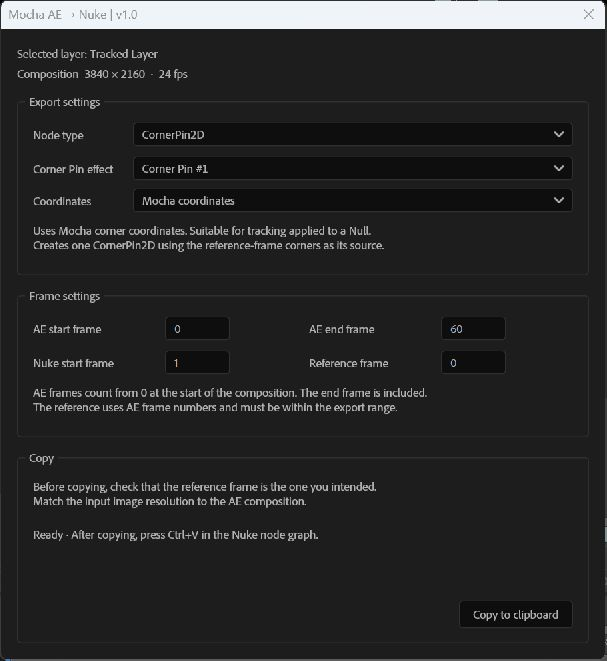
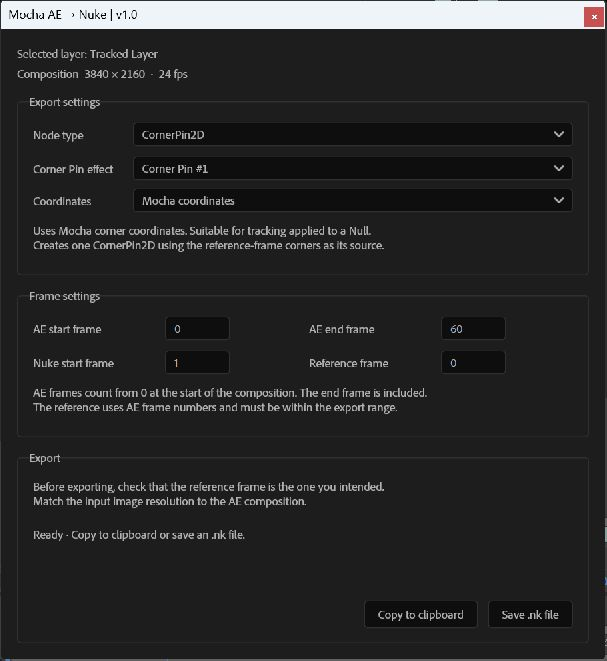
Mocha AE to Nuke v1.0

diff --git a/Mocha_AE_to_Nuke_KO.jsx b/Mocha_AE_to_Nuke_KO.jsx
@@ -260,6 +260,24 @@ var MochaNukeBridge = (function () {
             }
         }
     }
+    function saveNK(text) {
+        var file = File.saveDialog('Nuke 파일로 저장', 'Nuke script:*.nk');
+        if (!file) return null;
+        if (!/\.nk$/i.test(file.name)) {
+            file = new File(file.fsName + '.nk');
+            if (file.exists && !confirm('같은 이름의 파일이 있습니다. 덮어쓸까요?\n' + file.fsName)) return null;
+        }
+        try {
+            file.encoding = 'UTF-8'; file.lineFeed = 'Unix';
+            if (!file.open('w')) throw new Error('파일을 쓸 수 없습니다: ' + file.error);
+            var written = file.write(text), closed = file.close();
+            if (!written || !closed) throw new Error('파일 저장에 실패했습니다: ' + file.error);
+            if (!file.open('r')) throw new Error('저장한 파일을 확인할 수 없습니다: ' + file.error);
+            var actual = file.read(); file.close();
+            if (actual !== text) throw new Error('저장한 파일의 내용이 원본과 다릅니다.');
+            return file.fsName;
+        } finally { try { file.close(); } catch (ignored) {} }
+    }
     function run() {
         try {
             var comp = app.project ? app.project.activeItem : null;
@@ -323,19 +341,20 @@ var MochaNukeBridge = (function () {
                 updateModeHelp();
             };
             cornerSpaceList.onChange = updateModeHelp;
-            var copyPanel = panel('복사');
+            var copyPanel = panel('내보내기');
             var pasteHelp = copyPanel.add('statictext', undefined,
-                '복사 전에 레퍼런스 프레임이 원하는 기준 시점인지 확인하세요.\n입력 이미지의 해상도는 AE 컴포지션과 맞춰 주세요.', {multiline: true});
+                '내보내기 전에 레퍼런스 프레임이 원하는 기준 시점인지 확인하세요.\n입력 이미지의 해상도는 AE 컴포지션과 맞춰 주세요.', {multiline: true});
             pasteHelp.preferredSize = [540, 38];
-            var status = copyPanel.add('statictext', undefined, clipboardPermissionMessage() || '준비 완료 · 복사 후 Nuke 노드 그래프에서 Ctrl+V 하세요.', {multiline: true});
+            var status = copyPanel.add('statictext', undefined, clipboardPermissionMessage() || '준비 완료 · 클립보드로 복사하거나 .nk 파일로 저장하세요.', {multiline: true});
             status.preferredSize = [540, 64];
             var buttons = copyPanel.add('group'); buttons.alignment = 'right';
             var exportButton = buttons.add('button', undefined, '클립보드로 복사');
+            var saveButton = buttons.add('button', undefined, '.nk 파일로 저장');
             win.defaultElement = exportButton;
-            exportButton.onClick = function () {
-                exportButton.enabled = false;
+            function exportTracking(toFile) {
+                exportButton.enabled = false; saveButton.enabled = false;
                 try {
-                    status.text = '트래킹 데이터를 복사하는 중입니다…';
+                    status.text = '트래킹 데이터를 준비하는 중입니다…';
                     win.update();
                     var opts = {aeFirst: integer(firstBox.text, 'AE start'), aeLast: integer(lastBox.text, 'AE end'),
                         type: typeList.selection.index === 1 ? 'transform' : 'cornerpin',
@@ -344,20 +363,29 @@ var MochaNukeBridge = (function () {
                         refFrame: integer(refBox.text, '레퍼런스 프레임')};
                     if (opts.type === 'cornerpin' && !effects.length) throw new Error('Mocha AE에서 Corner Pin > Apply Export를 먼저 실행하세요.');
                     var data = collect(layer, effects[effectList.selection.index], comp, opts);
-                    copyClipboard(makeNK(data), function (done, total) {
-                        status.text = '클립보드로 전달 중… ' + Math.round(done / total * 100) + '%';
-                    });
-                    status.text = '복사 완료 · Nuke ' + data.first + '–' + (data.first + data.samples.length - 1) + '프레임 · 노드 1개';
-                    status.text += '\n레퍼런스: AE ' + opts.refFrame + ' → Nuke ' + (data.first + data.refIndex) + '\nNuke 노드 그래프에서 Ctrl+V 하세요.';
-                } catch (e) { status.text = '복사 실패: ' + (e.message || e.toString()); }
-                finally { exportButton.enabled = true; }
-            };
+                    var text = makeNK(data), savedPath = null;
+                    if (toFile) {
+                        savedPath = saveNK(text);
+                        if (!savedPath) { status.text = '저장을 취소했습니다.'; return; }
+                    } else {
+                        copyClipboard(text, function (done, total) {
+                            status.text = '클립보드로 전달 중… ' + Math.round(done / total * 100) + '%';
+                        });
+                    }
+                    status.text = (toFile ? '저장 완료 · Nuke ' : '복사 완료 · Nuke ') + data.first + '–' + (data.first + data.samples.length - 1) + '프레임 · 노드 1개';
+                    status.text += '\n레퍼런스: AE ' + opts.refFrame + ' → Nuke ' + (data.first + data.refIndex);
+                    status.text += toFile ? '\n' + savedPath : '\nNuke 노드 그래프에서 Ctrl+V 하세요.';
+                } catch (e) { status.text = (toFile ? '저장 실패: ' : '복사 실패: ') + (e.message || e.toString()); }
+                finally { exportButton.enabled = true; saveButton.enabled = true; }
+            }
+            exportButton.onClick = function () { exportTracking(false); };
+            saveButton.onClick = function () { exportTracking(true); };
             typeList.onChange();
             win.center(); win.show();
         } catch (e) { alert('Mocha → Nuke\n' + e.toString()); }
     }
     return {run: run, collect: collect, makeNK: makeNK, sample: sample, transformPoint: transformPoint,
-        findPins: findPins, encodeUTF16: encodeUTF16, copyClipboard: copyClipboard,
+        findPins: findPins, encodeUTF16: encodeUTF16, copyClipboard: copyClipboard, saveNK: saveNK,
         relativeTransforms: relativeTransforms};
 }());
 if (!$.global.MOCHA_NUKE_LIBRARY_ONLY) MochaNukeBridge.run();

diff --git a/Mocha_AE_to_Nuke_EN.jsx b/Mocha_AE_to_Nuke_EN.jsx
@@ -260,6 +260,24 @@ var MochaNukeBridge = (function () {
             }
         }
     }
+    function saveNK(text) {
+        var file = File.saveDialog('Save Nuke file', 'Nuke script:*.nk');
+        if (!file) return null;
+        if (!/\.nk$/i.test(file.name)) {
+            file = new File(file.fsName + '.nk');
+            if (file.exists && !confirm('A file with this name exists. Overwrite it?\n' + file.fsName)) return null;
+        }
+        try {
+            file.encoding = 'UTF-8'; file.lineFeed = 'Unix';
+            if (!file.open('w')) throw new Error('Cannot write file: ' + file.error);
+            var written = file.write(text), closed = file.close();
+            if (!written || !closed) throw new Error('Failed to save file: ' + file.error);
+            if (!file.open('r')) throw new Error('Cannot verify saved file: ' + file.error);
+            var actual = file.read(); file.close();
+            if (actual !== text) throw new Error('Saved file contents differ from the original.');
+            return file.fsName;
+        } finally { try { file.close(); } catch (ignored) {} }
+    }
     function run() {
         try {
             var comp = app.project ? app.project.activeItem : null;
@@ -323,17 +341,18 @@ var MochaNukeBridge = (function () {
                 updateModeHelp();
             };
             cornerSpaceList.onChange = updateModeHelp;
-            var copyPanel = panel('Copy');
+            var copyPanel = panel('Export');
             var pasteHelp = copyPanel.add('statictext', undefined,
-                'Before copying, check that the reference frame is the one you intended.\nMatch the input image resolution to the AE composition.', {multiline: true});
+                'Before exporting, check that the reference frame is the one you intended.\nMatch the input image resolution to the AE composition.', {multiline: true});
             pasteHelp.preferredSize = [540, 38];
-            var status = copyPanel.add('statictext', undefined, clipboardPermissionMessage() || 'Ready · After copying, press Ctrl+V in the Nuke node graph.', {multiline: true});
+            var status = copyPanel.add('statictext', undefined, clipboardPermissionMessage() || 'Ready · Copy to clipboard or save an .nk file.', {multiline: true});
             status.preferredSize = [540, 64];
             var buttons = copyPanel.add('group'); buttons.alignment = 'right';
             var exportButton = buttons.add('button', undefined, 'Copy to clipboard');
+            var saveButton = buttons.add('button', undefined, 'Save .nk file');
             win.defaultElement = exportButton;
-            exportButton.onClick = function () {
-                exportButton.enabled = false;
+            function exportTracking(toFile) {
+                exportButton.enabled = false; saveButton.enabled = false;
                 try {
                     status.text = 'Preparing tracking data…';
                     win.update();
@@ -344,20 +363,29 @@ var MochaNukeBridge = (function () {
                         refFrame: integer(refBox.text, 'Reference frame')};
                     if (opts.type === 'cornerpin' && !effects.length) throw new Error('First apply Corner Pin tracking data using Apply Export in Mocha AE.');
                     var data = collect(layer, effects[effectList.selection.index], comp, opts);
-                    copyClipboard(makeNK(data), function (done, total) {
-                        status.text = 'Copying to clipboard… ' + Math.round(done / total * 100) + '%';
-                    });
-                    status.text = 'Copied · Nuke ' + data.first + '–' + (data.first + data.samples.length - 1) + ' frames · 1 node';
-                    status.text += '\nReference: AE ' + opts.refFrame + ' → Nuke ' + (data.first + data.refIndex) + '\nPress Ctrl+V in the Nuke node graph.';
-                } catch (e) { status.text = 'Copy failed: ' + (e.message || e.toString()); }
-                finally { exportButton.enabled = true; }
-            };
+                    var text = makeNK(data), savedPath = null;
+                    if (toFile) {
+                        savedPath = saveNK(text);
+                        if (!savedPath) { status.text = 'Save cancelled.'; return; }
+                    } else {
+                        copyClipboard(text, function (done, total) {
+                            status.text = 'Copying to clipboard… ' + Math.round(done / total * 100) + '%';
+                        });
+                    }
+                    status.text = (toFile ? 'Saved · Nuke ' : 'Copied · Nuke ') + data.first + '–' + (data.first + data.samples.length - 1) + ' frames · 1 node';
+                    status.text += '\nReference: AE ' + opts.refFrame + ' → Nuke ' + (data.first + data.refIndex);
+                    status.text += toFile ? '\n' + savedPath : '\nPress Ctrl+V in the Nuke node graph.';
+                } catch (e) { status.text = (toFile ? 'Save failed: ' : 'Copy failed: ') + (e.message || e.toString()); }
+                finally { exportButton.enabled = true; saveButton.enabled = true; }
+            }
+            exportButton.onClick = function () { exportTracking(false); };
+            saveButton.onClick = function () { exportTracking(true); };
             typeList.onChange();
             win.center(); win.show();
         } catch (e) { alert('Mocha → Nuke\n' + e.toString()); }
     }
     return {run: run, collect: collect, makeNK: makeNK, sample: sample, transformPoint: transformPoint,
-        findPins: findPins, encodeUTF16: encodeUTF16, copyClipboard: copyClipboard,
+        findPins: findPins, encodeUTF16: encodeUTF16, copyClipboard: copyClipboard, saveNK: saveNK,
         relativeTransforms: relativeTransforms};
 }());
 if (!$.global.MOCHA_NUKE_LIBRARY_ONLY) MochaNukeBridge.run();

diff --git a/README.md b/README.md
@@ -4,7 +4,7 @@
 
 <h1 align="center">Mocha AE → Nuke</h1>
 
-<p align="center">Copy tracking from After Effects. Paste a single node into Nuke.</p>
+<p align="center">Export tracking from After Effects as a single Nuke node.</p>
 
 <p align="center">
   <a href="https://github.com/tardis7732/mocha-ae-to-nuke/tree/v1.0"><img src="https://img.shields.io/badge/version-1.0-526DDB" alt="Version 1.0"></a>
@@ -20,7 +20,7 @@
   <img src="images/english.jpg" alt="English interface — Mocha AE to Nuke v1.0" width="607">
 </p>
 
-Export Mocha tracking applied in AE as **CornerPin2D** or **Transform**. Reference-frame correction is included in one node, with a single **Copy to clipboard** button. No `.nk` save step.
+Export Mocha tracking applied in AE as **CornerPin2D** or **Transform**. Reference-frame correction is included in one node. Use **Copy to clipboard** or **Save .nk file**, side by side in the same dialog.
 
 ## Quick start
 
@@ -28,7 +28,7 @@ Export Mocha tracking applied in AE as **CornerPin2D** or **Transform**. Referen
 2. In AE, enable **Preferences → Scripting & Expressions → Allow Scripts to Write Files and Access Network**.
 3. Track in Mocha AE, save, and return to AE. Use **Create Track Data**, select the tracked layer, then **Apply Export** with **Corner Pin** or **Transform**.
 4. Select the layer receiving the keyframes. Open **File → Scripts → Run Script File…** and run [`Mocha_AE_to_Nuke_EN.jsx`](Mocha_AE_to_Nuke_EN.jsx).
-5. Choose the node type, frame range and reference frame. Click **Copy to clipboard**, then press **Ctrl+V** in the Nuke node graph.
+5. Choose the node type, frame range and reference frame. Click **Copy to clipboard**, then press **Ctrl+V** in the Nuke node graph. Or click **Save .nk file** and choose a location; import the saved file into Nuke with **File → Import Script**. Both options export the same node data.
 
 ## Settings
 
@@ -40,7 +40,7 @@ Export Mocha tracking applied in AE as **CornerPin2D** or **Transform**. Referen
 | **Mocha coordinates** | Uses the exported corner coordinates directly. Suitable for tracking received on a Null. |
 | **Include layer transform** | Also applies the receiving AE layer's position, rotation and scale to the corners. |
 
-Check the reference frame before copying. Match the Nuke input resolution and pixel aspect ratio to the AE composition, and position the input for that reference frame before applying the exported node.
+Check the reference frame before exporting. Match the Nuke input resolution and pixel aspect ratio to the AE composition, and position the input for that reference frame before applying the exported node.
 
 ## Included files
 
@@ -56,6 +56,5 @@ Check the reference frame before copying. Match the Nuke input resolution and pi
 - Keys are sampled at integer frames with linear interpolation. AE subframe motion and motion-blur rendering are not reproduced.
 - Clipboard copying uses the Windows command shell, PowerShell and temporary text files. Enable the AE scripting permission above. Temporary data is checked before copying and removed afterward; a second process verifies the copied text. Completion is checked through a result file. No installer or network requests.
 - If copying fails, check the message in the dialog. File access errors, empty data and verification failures are reported instead of success.
-- Screenshots show the actual AE dialog with a sample layer. Numerical and PowerShell transport tests passed with a mock clipboard. The complete AE-to-Nuke paste and render workflow has not been verified.
 
 </details>
